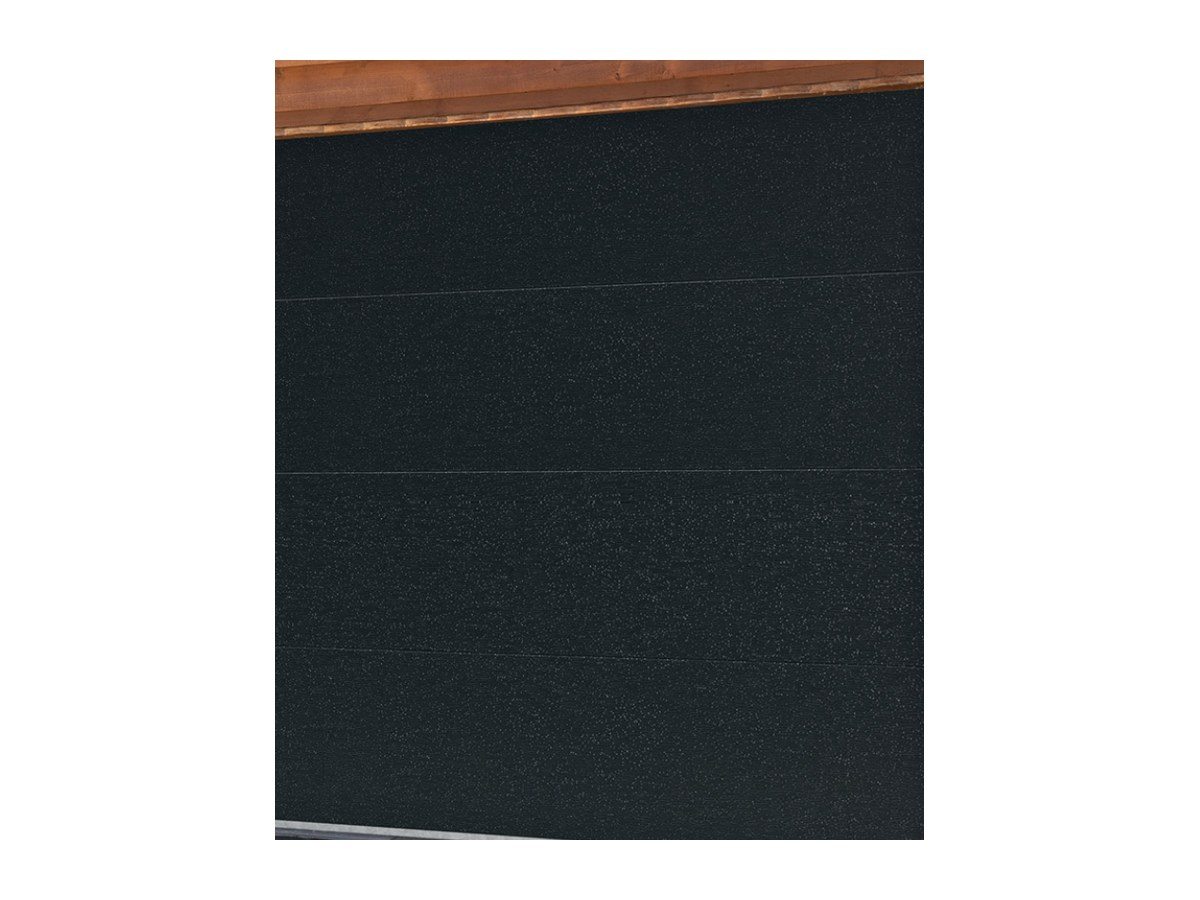
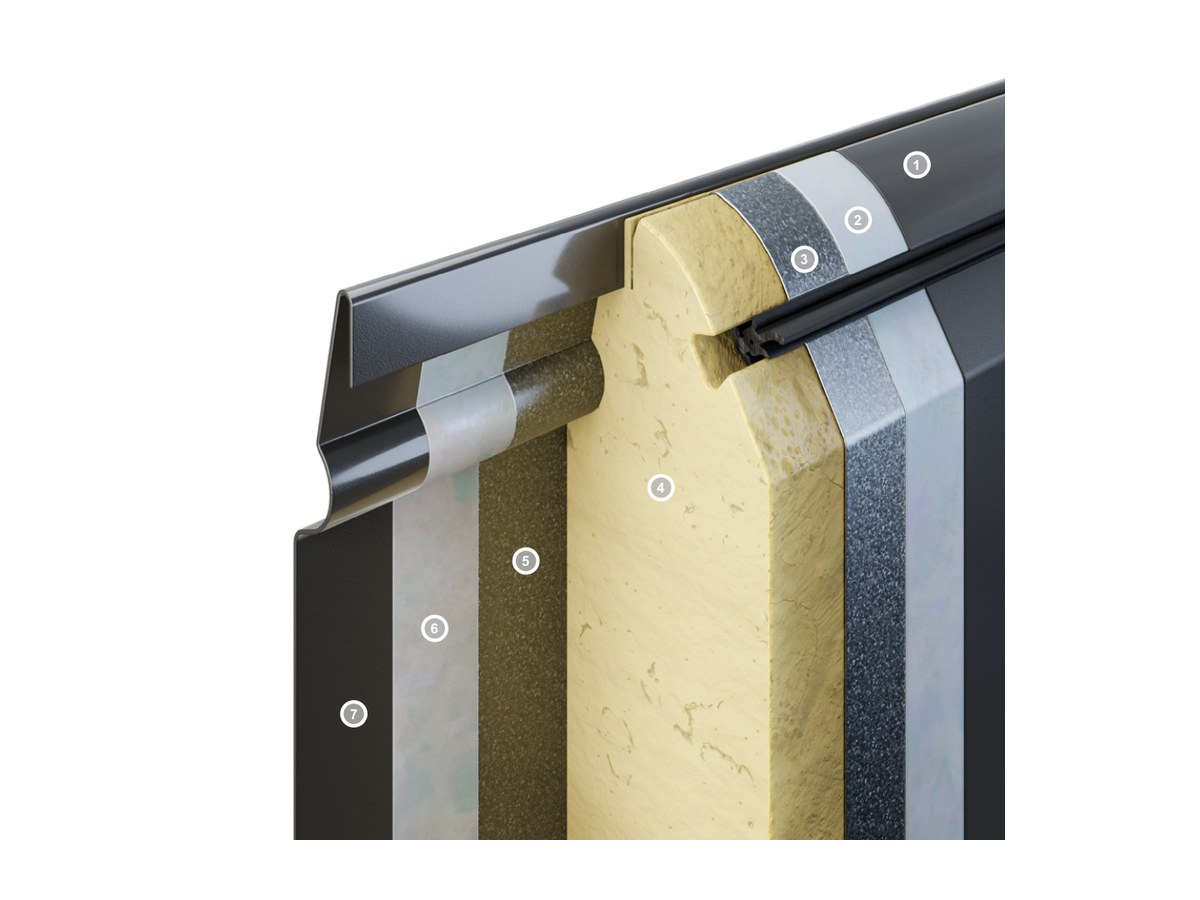
La ficha del INFINITI THERMO enseña el corte del panel de 60 mm, no un cuadrado borroso
El dueño lo cazó al momento: el pliego del THERMO no trae render —sus
dos hojas son fotos de obra— y el apaño anterior (un primer plano de la
foto del panel montado) parecía una imagen rota.

La imagen de producto correcta estaba tres hojas antes: el corte del
"Paneel des Garagensektionaltors 40/60 mm" de la hoja 9, con sus siete
capas numeradas — y la Platte de 60 mm es justo lo que define al
THERMO según su propio texto. Recorte manual para dejar fuera el final
de un párrafo que se colaba por la esquina.

De paso la ficha gana la spec impresa: Paneelstärke 60 mm
(INFINITI: 40 mm).

Claude-Session: https://claude.ai/code/session_01Sxjf1VcRzjemu8b38bfFpR

diff --git a/src/data/catalogue-models.ts b/src/data/catalogue-models.ts
@@ -10441,6 +10441,10 @@ export const CATALOGUE_MODELS: CatalogueModel[] = [
       {
         "label": "",
         "value": "Wärmegedämmtes Sektionaltor — Uw-Werte je nach Torgröße, vollständige Tabelle im Katalog"
+      },
+      {
+        "label": "Paneelstärke",
+        "value": "60 mm (INFINITI: 40 mm)"
       }
     ],
     "detailImage": "/images/models/garagentore/infiniti-thermo-detail.jpg",

diff --git a/scripts/extract_gates_models.py b/scripts/extract_gates_models.py
@@ -41,16 +41,18 @@ MARK_END = "  // ══ /Gama Tore ═══════════════
 # cada modelo. La lista de modelos se queda con la lámina completa del
 # pliego —única excepción, decisión del dueño: le gusta cómo queda— y la
 # ficha individual enseña este render. id → (hoja, xref) o
-# (hoja, None, recorte a mano). THERMO no trae render suelto: sus dos
-# hojas son fotos de obra, así que se recorta el primer plano del panel
-# montado.
+# (hoja, None, recorte a mano). THERMO no trae render en SU pliego (sus
+# dos hojas son fotos de obra); su imagen de producto es el corte del
+# paneel de la hoja 9 — "Paneel des Garagensektionaltors 40/60 mm" — que
+# es justo la Platte de 60 mm que define al sistema. El primer intento
+# fue un primer plano de la foto de obra y parecía una imagen rota.
 GARAGENTORE_DETAIL = {
     "infiniti-x": (11, 102),
     "infiniti-f": (13, 115),
     "infiniti-r": (15, 130),
     "infiniti-zero": (17, 161),
     "infiniti-f350": (19, 187),
-    "infiniti-thermo": (21, None, (16, 95, 345, 490)),
+    "infiniti-thermo": (9, None, (271, 146, 737, 595)),
     "presto": (66, 794),
     "unico": (67, 798),
     "rolltore": (71, 811),
@@ -139,6 +141,7 @@ GARAGENTORE = [
     ]),
     ("infiniti-thermo", "INFINITI THERMO", "Sektionaltore", 20, [
         ("", "Wärmegedämmtes Sektionaltor — Uw-Werte je nach Torgröße, vollständige Tabelle im Katalog"),
+        ("Paneelstärke", "60 mm (INFINITI: 40 mm)"),
     ]),
     ("presto", "PRESTO", "Drehflügel-Garagentore", 66, [
         ("Stahlprofile", "1,5 mm"),
